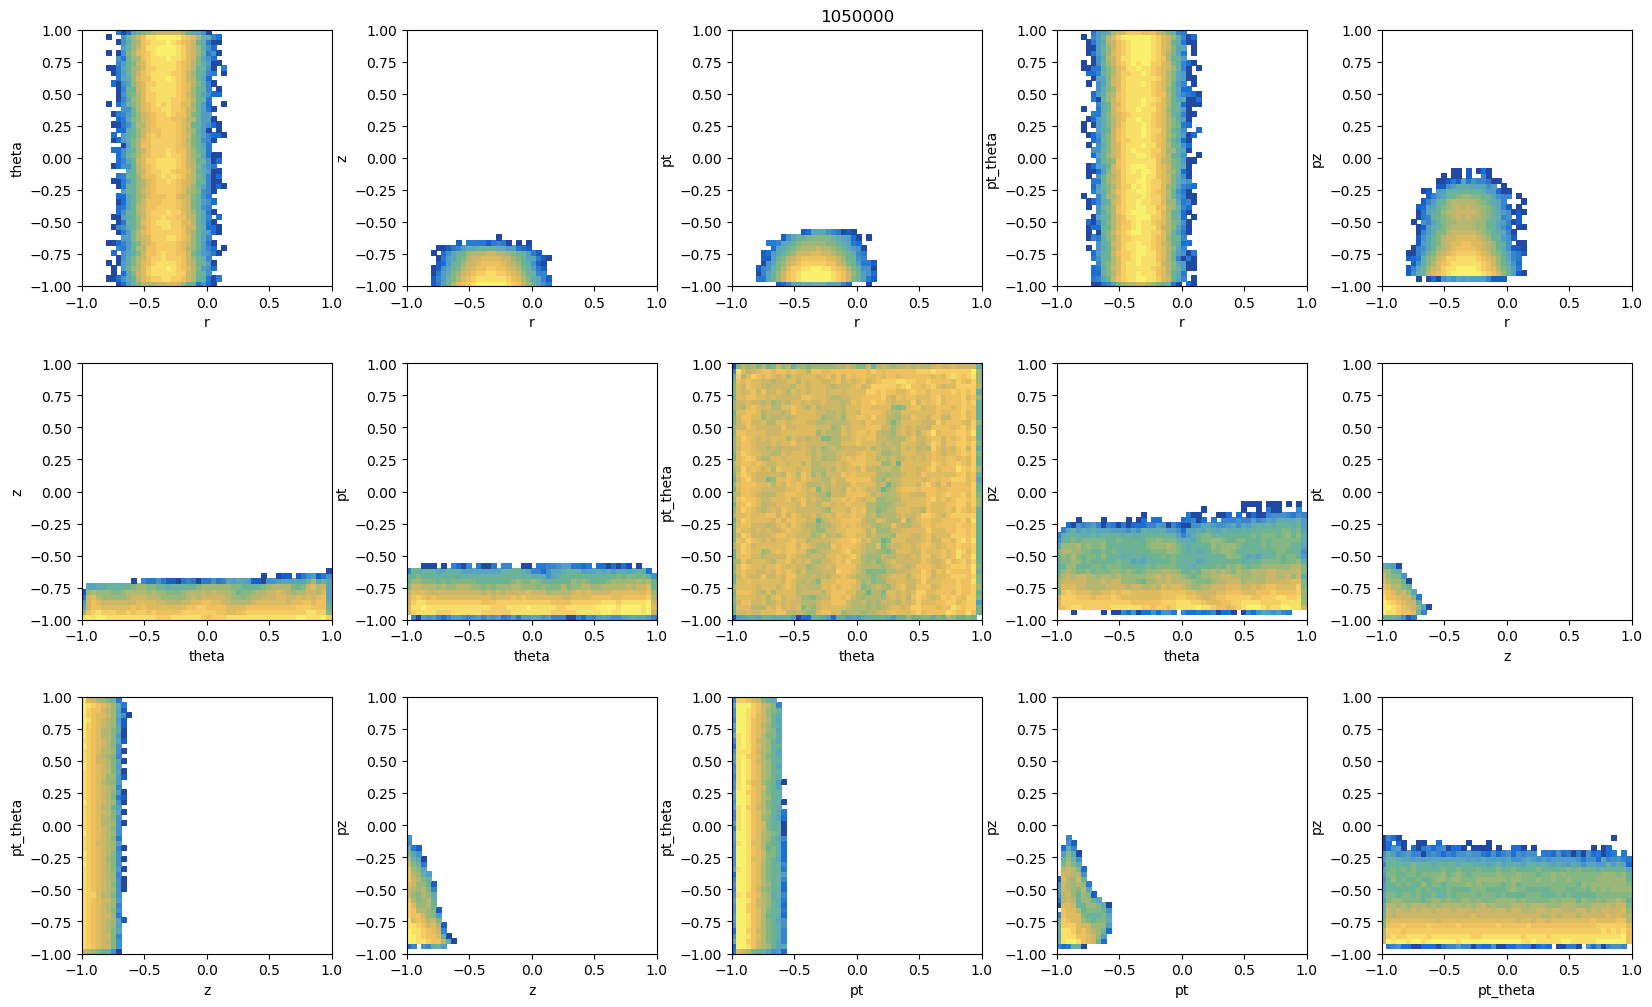
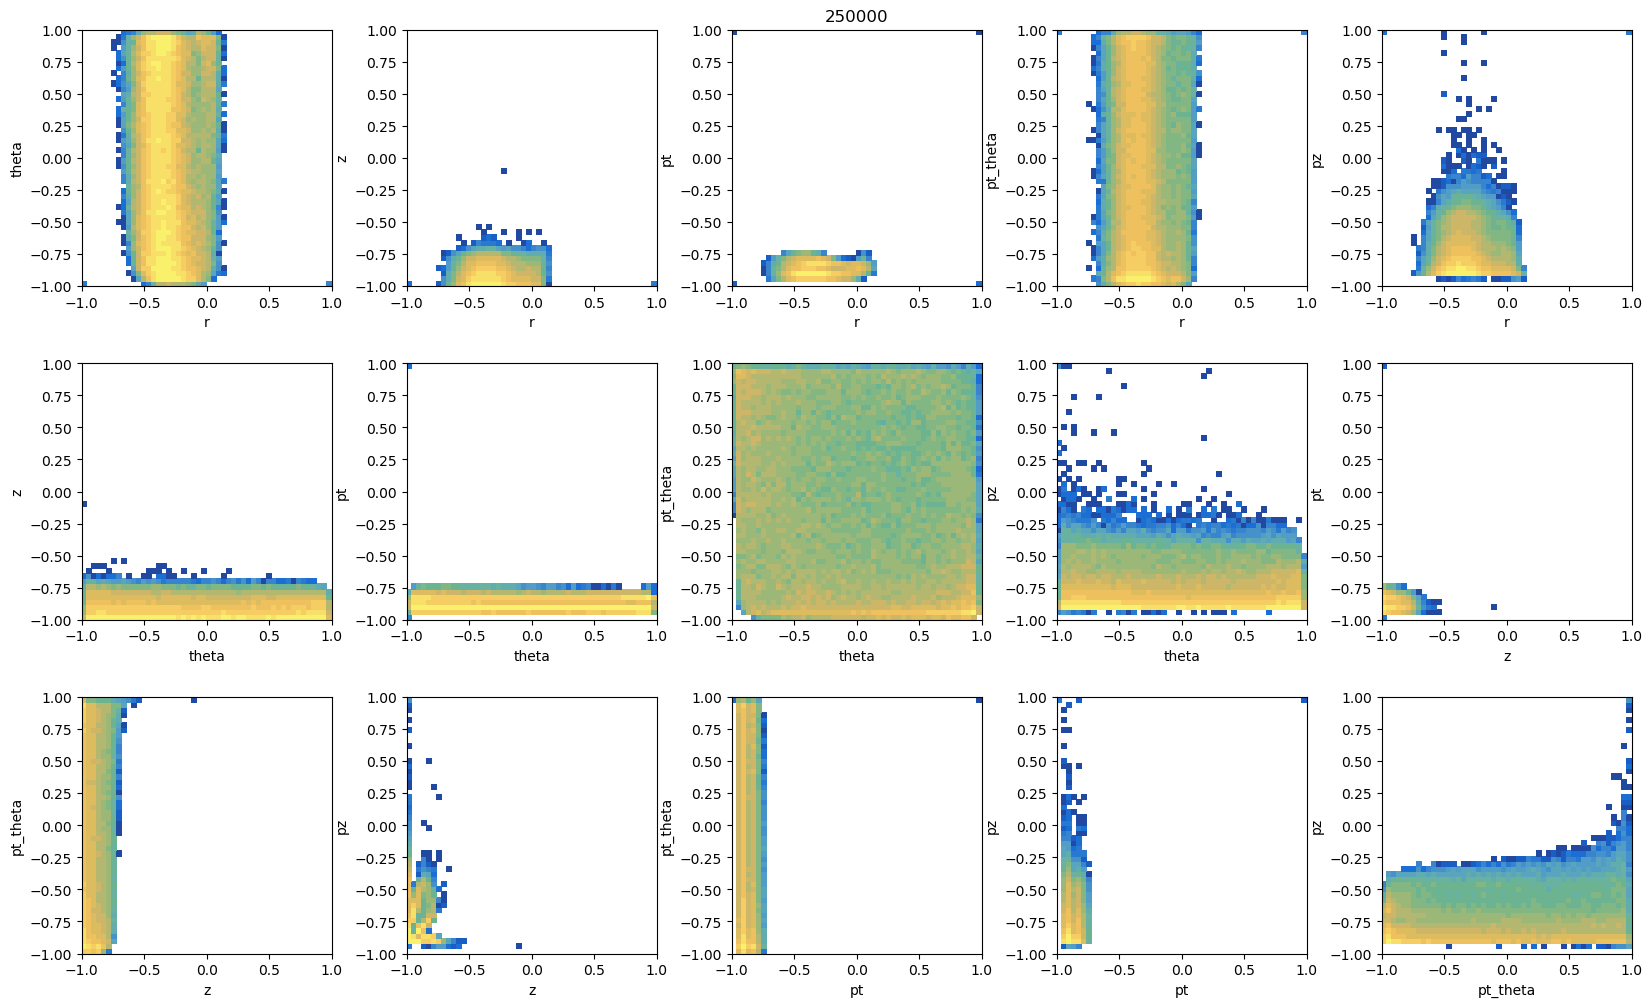
update

diff --git a/VAE.py b/VAE.py
@@ -279,7 +279,7 @@ for epoch in range(int(1E30)):
 		X_train = np.take(X_train,np.random.permutation(X_train.shape[0]),axis=0,out=X_train)
 
 		if sample_boosting == True:
-			boost_weights = X_train[:,-1]
+			boost_weights = np.sqrt(X_train[:,-1])
 			boost_weights = np.squeeze(boost_weights/np.sum(boost_weights))
 			list_for_np_choice = np.arange(np.shape(boost_weights)[0])
 			random_indicies_order = np.random.choice(list_for_np_choice, size=np.shape(X_train)[0], p=boost_weights, replace=True) 

diff --git a/README.md b/README.md
@@ -7,12 +7,11 @@ Improvements on the generative networks published [here](https://arxiv.org/pdf/1
 * Changed the parameterisation of the muon kinematics to polar co-ordinates.
 * Employ quantile and Box-Cox transformers to reversibly mould each kinematical input roughly into a normal distribution centered at 0.
 
-
 ## GANs
 
 This repo contains Auxiliary GANs designed to take an extra input variable(s) providing additional information about each sample. In this case that information is a description of the *rareness* of each muon. This rareness is estimated as the inverse average distance to three closest neighbours. The distribution of this auxiliary input is forced to be a single-tailed Gaussian. This is because, in the generation stage of the GAN one needs an easy distribution to sample from. Forcing the auxiliary distribution into this shape is an easy mapping in 1D, however in more dimensions it is more of a challenge. In the 4D example here, this is handeled with a Adversarial Auto-encoder (AAE). The AAE is a hybrid between a GAN and an AE. Like an AE the AAE maps the input to a latent space, the decodes to a reconstruction. This reconstruction enters the loss with a mean squared error back to the original sample, in addition in parallel a discriminator is trained to distinguish between latent space and some randomly generated single tailed gaussians. The distriminator enters the loss function with the usual GAN loss. 
 
 ## VAE
 
-The VAE architecture is just the standard. However, the training samples can be boosted by their *rareness*. This allows the VAE to better understand the tails of the distribution. Importantly, the boosting must be accounted for in the calculation of the KL-loss.
+The VAE architecture is just the standard. However, the training samples can be boosted by the square root of their *rareness* parameter, the value itself provides too much boosting. This allows the VAE to better understand the tails of the distribution. Importantly, the boosting must be accounted for in the calculation of the KL-loss.
 
